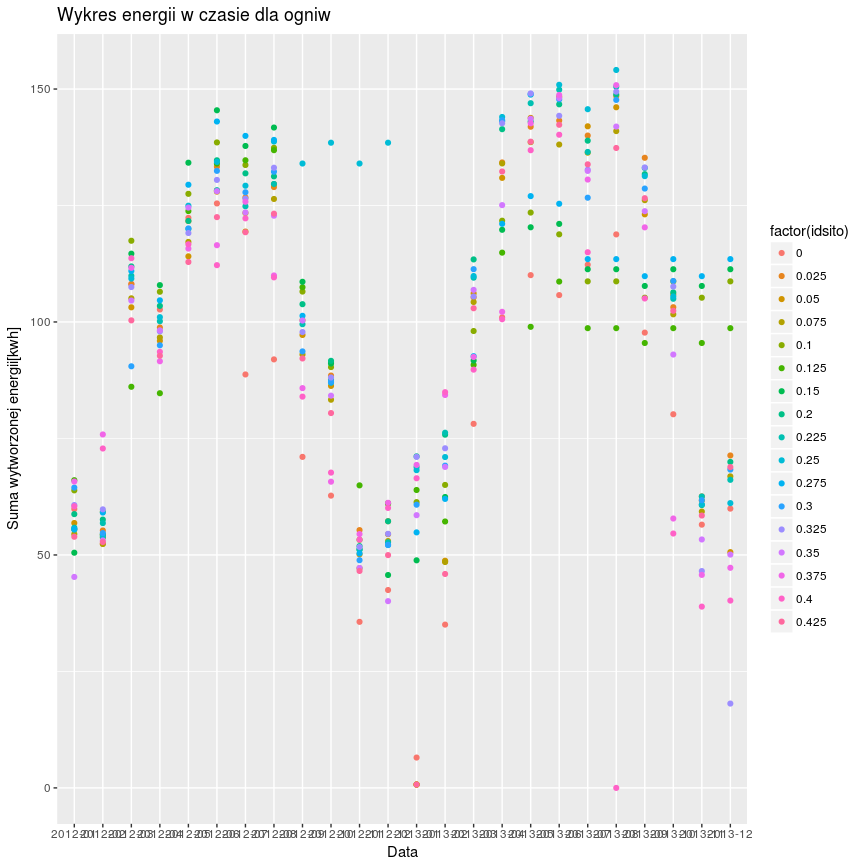
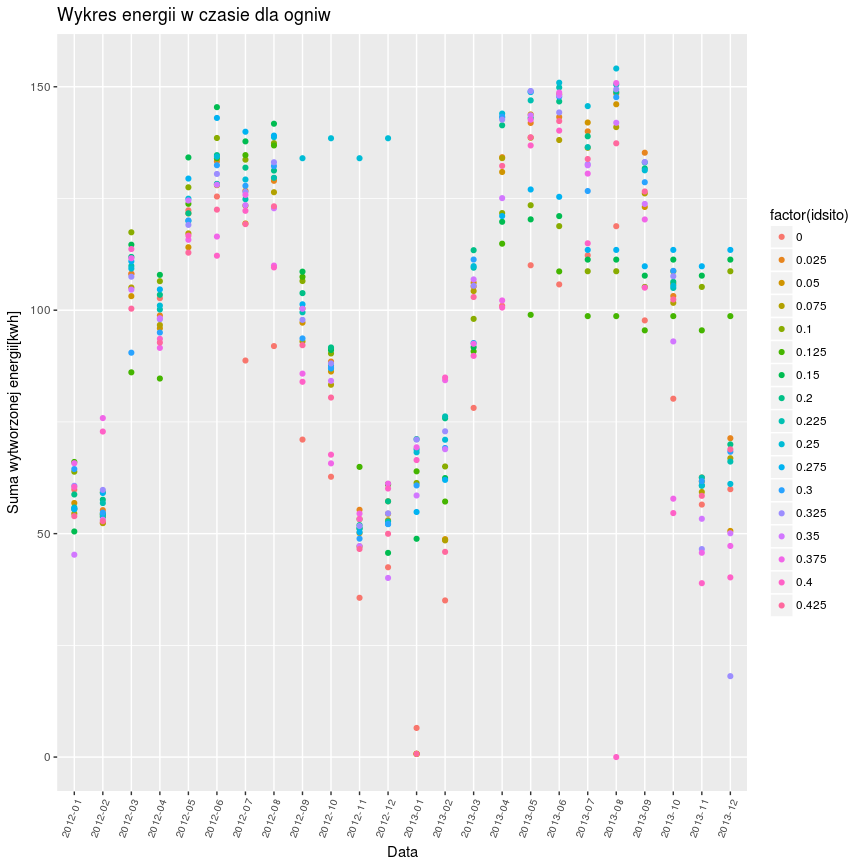
Fix last plot x labels

diff --git a/README.md b/README.md
@@ -898,7 +898,8 @@ data <- data %>%
 data2 <- data %>% group_by(date_year_month, idsito) %>% summarise(sum_kwh=sum(kwh))
 ggplot(data = data2, mapping = aes(x=date_year_month, y=sum_kwh, color=factor(idsito))) + 
   geom_point() +
-  labs(title = "Wykres energii w czasie dla ogniw", x = "Data", y = "Suma wytworzonej energii[kwh]")
+  labs(title = "Wykres energii w czasie dla ogniw", x = "Data", y = "Suma wytworzonej energii[kwh]") +
+  theme(axis.text.x = element_text(angle = 70, size = 8, vjust = 1, hjust = 1))
 ```
 
 ![](README_files/figure-markdown_github/unnamed-chunk-14-1.png)
